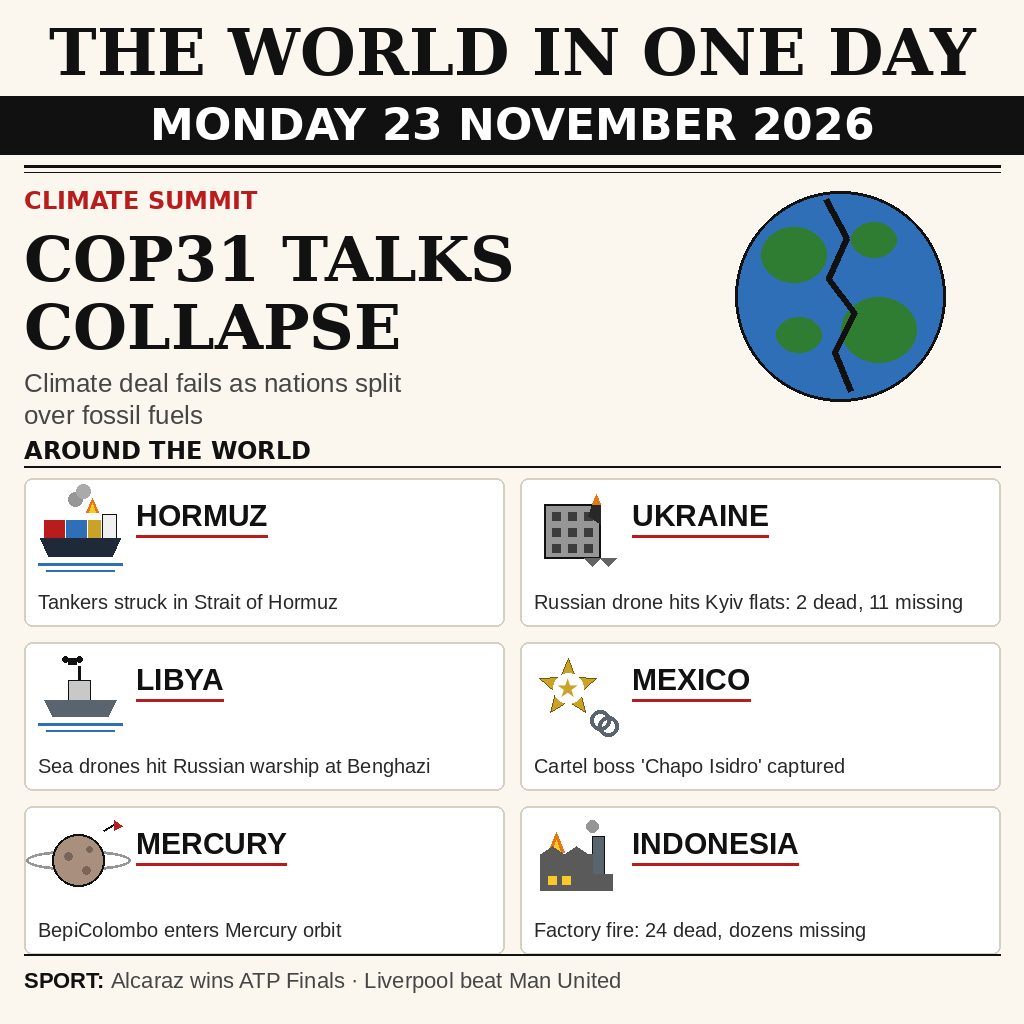
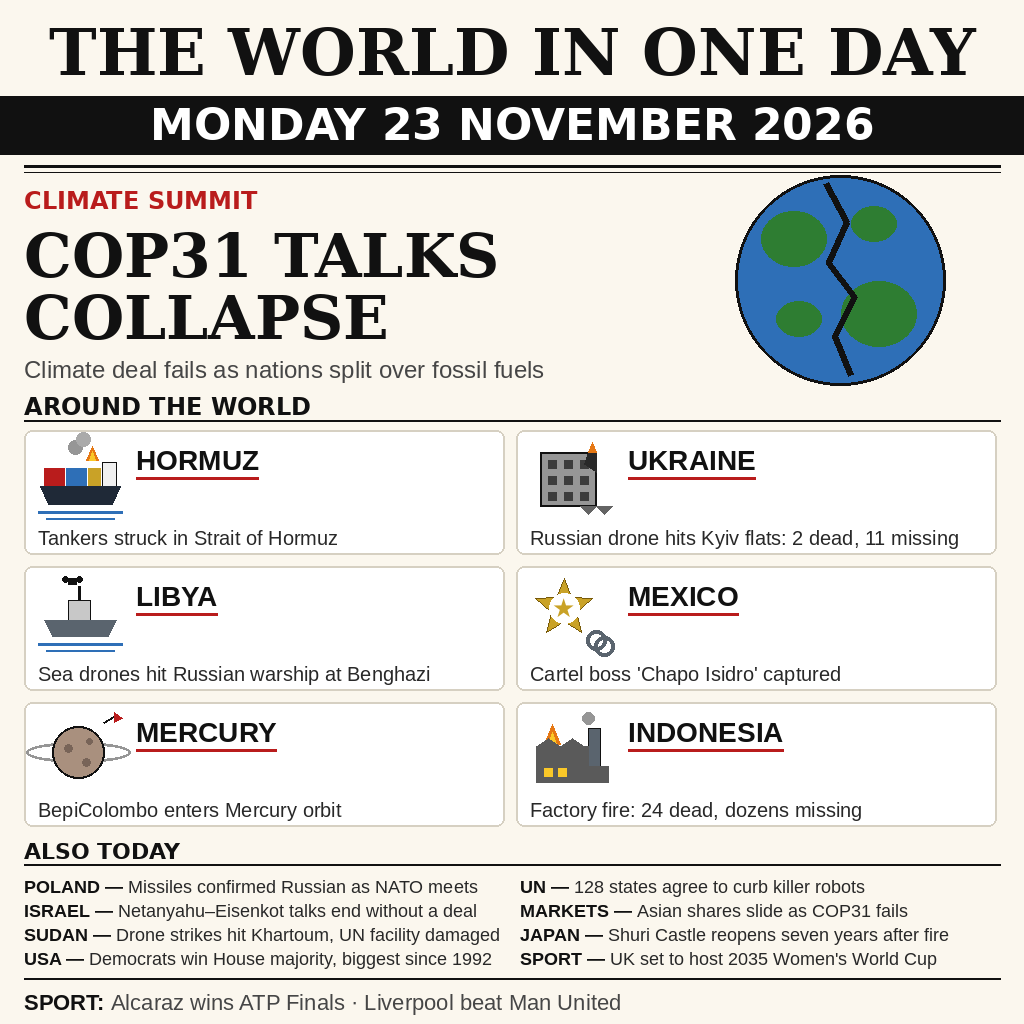
Add files via upload

diff --git a/main.ts b/main.ts
@@ -1,7 +1,8 @@
 import { copyFileSync, mkdirSync } from "node:fs";
 
-// The entry is a pre-drawn image: the program only copies it to the output
-// directory, so both graded runs produce byte-identical output.
+// The entry is a pre-drawn image (v2: 15 stories — hero + 6 cards + an
+// "Also Today" band + sport strip): the program only copies it to the
+// output directory, so both graded runs produce byte-identical output.
 const outDir = process.env.MAKEFUN_OUTPUT_DIR ?? "/output";
 mkdirSync(outDir, { recursive: true });
 copyFileSync(new URL("./entry.png", import.meta.url), `${outDir}/entry.png`);

diff --git a/draw.py b/draw.py
@@ -60,15 +60,14 @@ d.line([24, 172, W - 24, 172], fill=INK, width=1)
 # ---------------------------------------------------------------- hero story
 hx, hy = 24, 186
 d.text((hx, hy), "CLIMATE SUMMIT", font=font(DJV + "DejaVuSans-Bold.ttf", 24), fill=RED)
-f_head = font(DJV + "DejaVuSerif-Bold.ttf", 62)
-d.text((hx, hy + 36), "COP31 TALKS", font=f_head, fill=INK)
-d.text((hx, hy + 104), "COLLAPSE", font=f_head, fill=INK)
-f_sub = font(LIB + "LiberationSans-Regular.ttf", 26)
-d.text((hx, hy + 182), "Climate deal fails as nations split", font=f_sub, fill=MUTED)
-d.text((hx, hy + 214), "over fossil fuels", font=f_sub, fill=MUTED)
+f_head = font(DJV + "DejaVuSerif-Bold.ttf", 60)
+d.text((hx, hy + 34), "COP31 TALKS", font=f_head, fill=INK)
+d.text((hx, hy + 96), "COLLAPSE", font=f_head, fill=INK)
+f_sub = font(LIB + "LiberationSans-Regular.ttf", 24)
+d.text((hx, hy + 170), "Climate deal fails as nations split over fossil fuels", font=f_sub, fill=MUTED)
 
 # cracked globe illustration (right of the hero text)
-cx, cy, r = 840, 296, 105
+cx, cy, r = 840, 280, 105
 layer = Image.new("RGBA", (2 * r + 8, 2 * r + 8), (0, 0, 0, 0))
 ld = ImageDraw.Draw(layer)
 ld.ellipse([4, 4, 2 * r + 4, 2 * r + 4], fill=OCEAN + (255,))
@@ -86,8 +85,8 @@ crack = [(cx - 15, cy - r + 8), (cx + 6, cy - 58), (cx - 12, cy - 18),
 d.line(crack, fill=INK, width=6, joint="curve")
 
 # ---------------------------------------------------------------- section header
-d.text((24, 436), "AROUND THE WORLD", font=font(DJV + "DejaVuSans-Bold.ttf", 24), fill=INK)
-d.line([24, 466, W - 24, 466], fill=INK, width=2)
+d.text((24, 392), "AROUND THE WORLD", font=font(DJV + "DejaVuSans-Bold.ttf", 24), fill=INK)
+d.line([24, 420, W - 24, 420], fill=INK, width=2)
 
 # ---------------------------------------------------------------- story cards
 CARDS = [
@@ -200,27 +199,62 @@ def icon_factory(dr, x, y, s):
 ICONS = {"tanker": icon_tanker, "flats": icon_flats, "warship": icon_warship,
          "badge": icon_badge, "planet": icon_planet, "factory": icon_factory}
 
-grid_x, grid_y = 24, 478
-card_w, card_h, gap = 480, 148, 16
-f_label = font(LIB + "LiberationSans-Bold.ttf", 30)
+grid_x, grid_y = 24, 430
+card_w, card_h, gap = 480, 124, 12
+f_label = font(LIB + "LiberationSans-Bold.ttf", 28)
 for i, (label, caption, kind) in enumerate(CARDS):
     col, row = i % 2, i // 2
     x = grid_x + col * (card_w + gap)
     y = grid_y + row * (card_h + gap)
     d.rounded_rectangle([x, y, x + card_w, y + card_h], radius=8,
                         fill=CARD_BG, outline=CARD_BORDER, width=2)
-    ICONS[kind](d, x + 14, y + 12, 84)
-    d.text((x + 112, y + 20), label, font=f_label, fill=INK)
+    ICONS[kind](d, x + 14, y + 8, 84)
+    d.text((x + 112, y + 14), label, font=f_label, fill=INK)
     lw = f_label.getlength(label)
-    d.line([x + 112, y + 58, x + 112 + lw, y + 58], fill=RED, width=3)
+    d.line([x + 112, y + 48, x + 112 + lw, y + 48], fill=RED, width=3)
     f_cap = fit(LIB + "LiberationSans-Regular.ttf", caption, card_w - 28, 20, minimum=15)
-    d.text((x + 14, y + 112), caption, font=f_cap, fill=(40, 40, 40))
+    d.text((x + 14, y + 96), caption, font=f_cap, fill=(40, 40, 40))
+
+# ---------------------------------------------------------------- also today
+d.text((24, 838), "ALSO TODAY", font=font(DJV + "DejaVuSans-Bold.ttf", 22), fill=INK)
+d.line([24, 864, W - 24, 864], fill=INK, width=2)
+
+ALSO = [
+    ("POLAND", "Missiles confirmed Russian as NATO meets"),
+    ("UN", "128 states agree to curb killer robots"),
+    ("ISRAEL", "Netanyahu\u2013Eisenkot talks end without a deal"),
+    ("MARKETS", "Asian shares slide as COP31 fails"),
+    ("SUDAN", "Drone strikes hit Khartoum, UN facility damaged"),
+    ("JAPAN", "Shuri Castle reopens seven years after fire"),
+    ("USA", "Democrats win House majority, biggest since 1992"),
+    ("SPORT", "UK set to host 2035 Women's World Cup"),
+]
+# Two columns, four rows: eight more verified stories of the day, so the
+# page carries 15 stories across regions and fields instead of seven.
+also_w = 480
+also_size = 19
+while also_size > 14:
+    fb = font(LIB + "LiberationSans-Bold.ttf", also_size)
+    fr = font(LIB + "LiberationSans-Regular.ttf", also_size)
+    if all(fb.getlength(lead + " \u2014 ") + fr.getlength(clause) <= also_w
+           for lead, clause in ALSO):
+        break
+    also_size -= 1
+f_also_b = font(LIB + "LiberationSans-Bold.ttf", also_size)
+f_also = font(LIB + "LiberationSans-Regular.ttf", also_size)
+for j, (lead, clause) in enumerate(ALSO):
+    col, row = j % 2, j // 2
+    ax = 24 + col * 496
+    ay = 876 + row * 24
+    d.text((ax, ay), lead + " \u2014 ", font=f_also_b, fill=INK)
+    d.text((ax + f_also_b.getlength(lead + " \u2014 "), ay), clause,
+           font=f_also, fill=(40, 40, 40))
 
 # ---------------------------------------------------------------- sport strip
-d.line([24, 954, W - 24, 954], fill=INK, width=2)
+d.line([24, 978, W - 24, 978], fill=INK, width=2)
 f_sport_b = font(LIB + "LiberationSans-Bold.ttf", 22)
 f_sport = font(LIB + "LiberationSans-Regular.ttf", 22)
-sx, sy = 24, 968
+sx, sy = 24, 990
 d.text((sx, sy), "SPORT: ", font=f_sport_b, fill=INK)
 d.text((sx + f_sport_b.getlength("SPORT: "), sy),
        "Alcaraz wins ATP Finals \u00b7 Liverpool beat Man United",

diff --git a/README.md b/README.md
@@ -8,14 +8,17 @@ A newspaper front page for **Monday 23 November 2026**, drawn with Python +
 PIL — every word is drawn as text, so nothing is garbled.
 Built for the [make.fun bounty "Sum up 23 November's world news in one image"](https://make.fun/bounty/news-image-20261123).
 
-The front page leads with the COP31 talks collapsing, then six stories from
-around the world — Hormuz, Ukraine, Libya, Mexico, Mercury and Indonesia —
-plus a sport strip (Alcaraz wins the ATP Finals, Liverpool beat Man United).
-All facts are from news reported on 23 November 2026.
+Version 2 carries 15 stories: the front page leads with the COP31 talks
+collapsing, then six stories from around the world — Hormuz, Ukraine,
+Libya, Mexico, Mercury and Indonesia — then an "Also Today" band with eight
+more (Poland, the UN killer-robots deal, Israel, markets, Sudan, Japan, the
+US House, and the 2035 Women's World Cup), plus a sport strip (Alcaraz wins
+the ATP Finals, Liverpool beat Man United). All facts are from news reported
+on 23 November 2026.
 
 ## The files
 
-- `entry.png` — the image itself (1024x1024 PNG, 96,963 bytes, under the
+- `entry.png` — the image itself (1024x1024 PNG, 126,089 bytes, under the
   1 MiB cap; verified legible at full size and at ~300 px across).
 - `draw.py` — the script that draws `entry.png` (run it to regenerate it).
 - `main.ts` — the entry program: copies `entry.png` to
